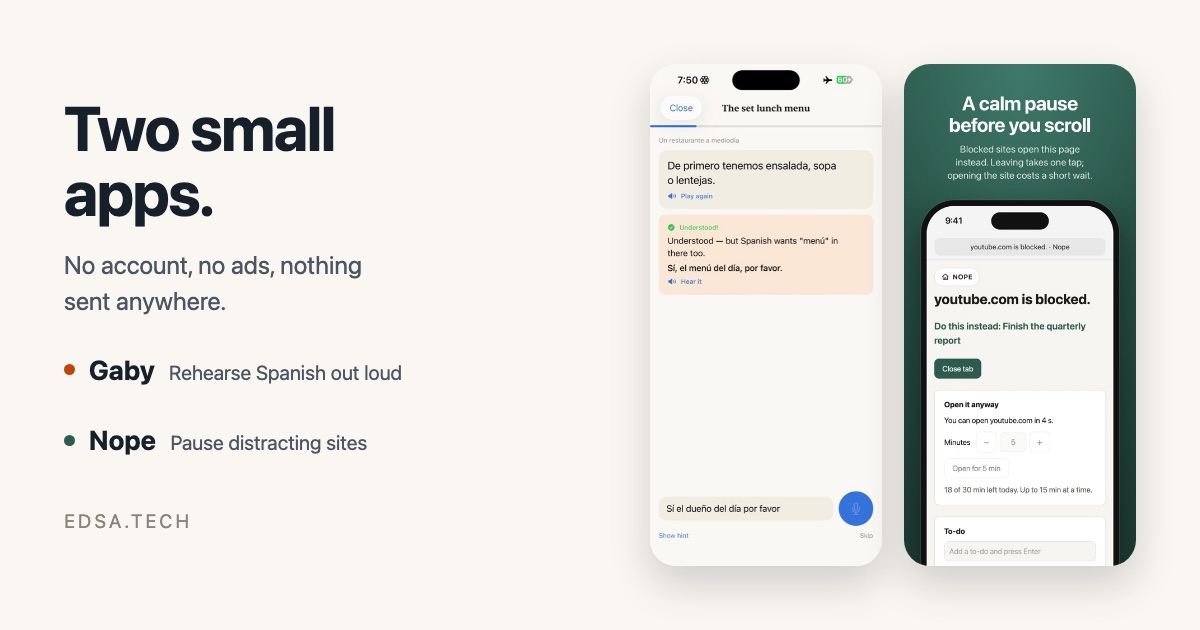
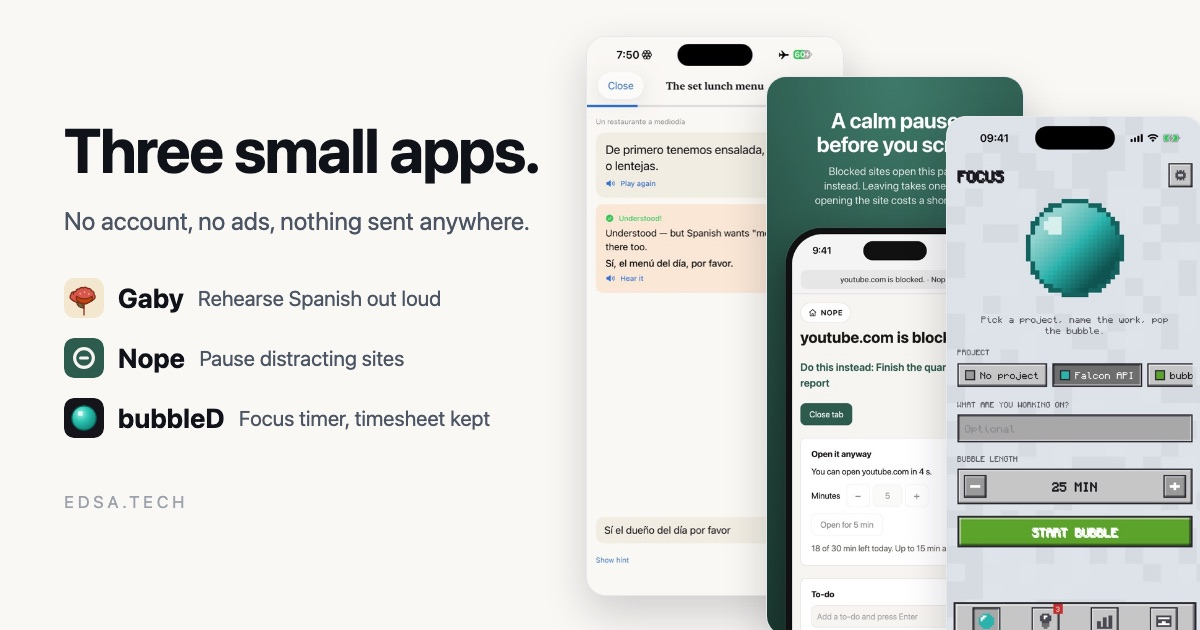
Add bubbleD to the home page
Submitted for App Store review 2026-11-02, so its button is a grey Soon
span, not a link, and its meta line says so. Three cards needed a wider
main and smaller card metrics to still fit one screen. The share card is
regenerated: it names the count.

diff --git a/AGENTS.md b/AGENTS.md
@@ -12,6 +12,13 @@ and different design languages. **Do not bleed one into the other.**
 | 2 | **Gaby — iOS app marketing microsite** | `public/gaby/` | Hand-written static HTML + CSS, zero build step | `https://edsa.tech/gaby/` | Consumers / App Store visitors |
 | 3 | **Nope — support and privacy pages** | `public/nope/` | Hand-written static HTML + CSS, zero build step | `https://edsa.tech/nope/support/` | Nope users / App Store and Chrome Web Store visitors |
 
+**bubbleD is a fourth product but has no pages here.** It lives at `bubbled.me`, a
+separate site in its own repo, which owns its landing, support and privacy pages.
+All this repo holds is `public/bubbled/` — an `icon.svg` and three screens — so the
+home page can carry a card for it. Do not build `/bubbled/` pages here, and do not
+copy bubbled.me's copy into this repo beyond that card: bubbled.me is the source of
+truth, so re-read it rather than editing the card's facts from memory.
+
 ---
 
 ## Quick facts
@@ -75,16 +82,28 @@ src/
 - **Fonts:** self-hosted Atkinson Hyperlegible, preloaded in `BaseHead.astro`.
 - **Adding a post:** create `src/content/blog/<category>/<slug>.mdx`, add the hero
   image to `src/assets/`, and it routes automatically via `blog/[...slug].astro`.
-- **The home page is the two products** (rebuilt 2026-10-30). It is laid out like a
-  store listing: a one-line lede, then the two apps side by side in a grid, each card
+- **The home page is the three products** (rebuilt 2026-10-30, third card 2026-11-02).
+  It is laid out like a store listing: a one-line lede, then the apps side by side in a
+  three-column grid (two columns under 1140 px, one under 760 px), each card
   an icon + name + subtitle + Get button, a strip of three real captures, one short
   paragraph and a three-cell info strip (price / what's inside / privacy). The two
   cards are sized to fit together in one 1440x900 screen — that is the point of the
-  layout, so check it before growing a card. Gaby's captures are raw phone screens and
+  layout, so check it before growing a card or adding a fourth. Going from two cards to
+  three meant widening `main` to 1280 px and shrinking the card metrics (icon 60 px,
+  h2 1.05rem, shots 185 px, info `dd` 0.76rem); measured at 1440x900 the cards bottom
+  out at 796 px of 900, so the margin is ~100 px, not much. Measure rather than eyeball:
+  `document.querySelector('.apps').getBoundingClientRect().bottom` against
+  `window.innerHeight` in the dev server. Gaby's captures are raw phone screens and
   crop from the top; Nope's are App Store cards with a headline above the device, so
   they crop past it (`object-position: center 92%`). Nope's Get button goes to the App
   Store and its second plain link goes to the Chrome Web Store; the meta line under
-  the name lists the platforms (`iPhone, Mac & Chrome · Productivity`). That card has
+  the name lists the platforms (`iPhone, Mac & Chrome · Productivity`). bubbleD was
+  submitted for App Store review 2026-11-02 and is **not approved**, so its button is
+  a grey `Soon` span rather than a link and its meta line reads
+  `iPhone · in App Store review`; its two plain links go out to bubbled.me. When it is
+  approved, swap the span for a Get link to the listing and change that meta line —
+  the App Store category is not known here, so read it off the listing rather than
+  guessing (the other two cards use `platform · category`). That card has
   room for exactly two plain links on one line — a third wraps and pushes the cards
   past the one-screen fit, which is why `Support →` gave way to `Add to Chrome →`. The writing is a quiet list at the bottom, read
   from the collection so no count is ever hardcoded — and that list is the only way
@@ -98,8 +117,13 @@ src/
   `/blog/fintech`, `/blog/microservices` and `/blog/ai-agents` as category pages with
   hardcoded counts; no such routes exist, and those links are gone with it.
 - **Share card:** `src/assets/og-home.jpg` (1200x630) is generated, not drawn — a
-  small HTML card screenshotted with headless Chrome, using the two products' real
-  captures. Re-make it the same way if a product's look changes.
+  small HTML card screenshotted with headless Chrome, using the three products' icons
+  and one real capture each, with the headline `Three small apps.` **It names the
+  count, so it goes stale the moment a product is added** — re-make it the same way
+  then, and whenever a product's look changes.
+  Note: macOS has no `timeout` command. Wrapping the Chrome call in `timeout 100 …`
+  fails with "command not found" and silently leaves no screenshot, which reads exactly
+  like Chrome hanging. Call Chrome directly.
 
 ## 2. Gaby microsite (static HTML)
 
